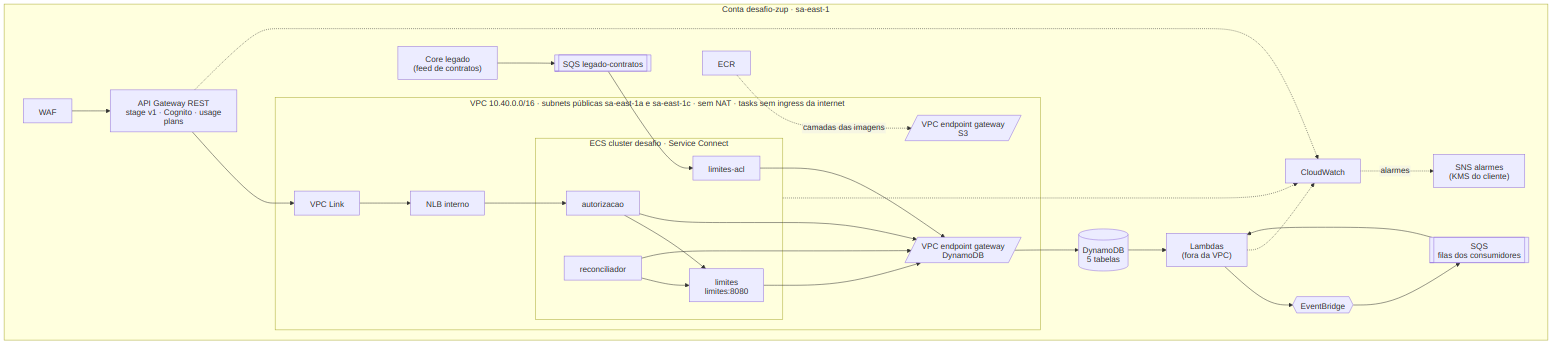
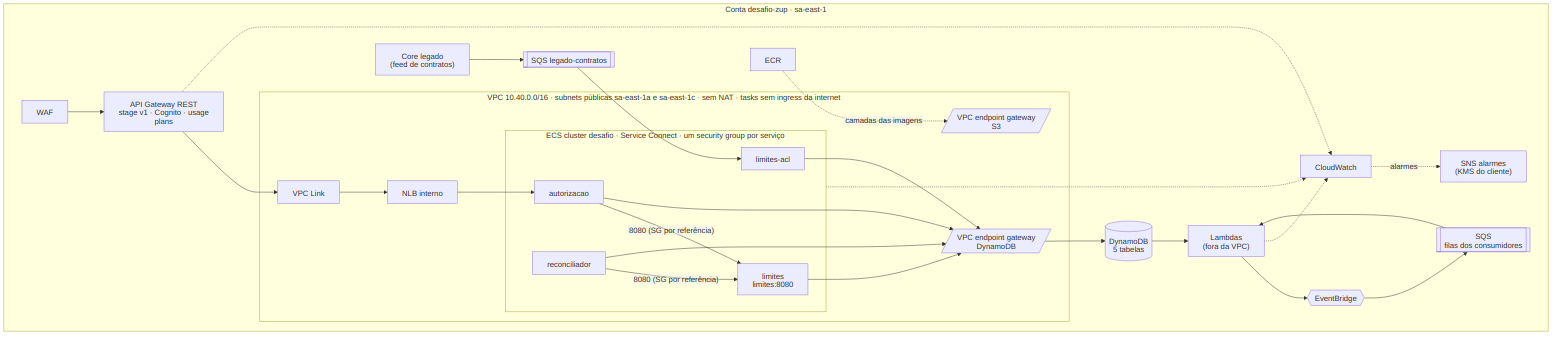
Integração do painel 6: documentação alinhada ao que foi implementado
- SLO e Well-Architected: burn rate em duas janelas e p99 alarmando em 400 ms já estão
  na IaC (não mais "desenhado").
- ADR-0017: lista de alarmes atual (burn rate, idade de fila, Errors de Lambda,
  IteratorAge do CDC, motivo desconhecido, varredura com erro).
- ADR-0010: três planos, o de carga estacionado em 200 rps.
- compliance.md: o canal vai no data do evento; 10 anos é desenho.
- capacidade.md: Lambdas do caminho assíncrono (teto 200 do ESM, perna do CDC, filtro INSERT).
- Matriz: id_conta conferido, 503 do banco no autorizacao, contrato interno testado,
  gate de schema mais largo com quebras registradas, IAM exclusivo nas 4 task roles,
  ACL aplicando conta e produto, e as limitações que pesam.
- Diagrama 05 com security group por serviço.

diff --git a/docs/cobertura-requisitos.md b/docs/cobertura-requisitos.md
@@ -18,7 +18,7 @@
 | RN-02 | Reserva consistente sob concorrência | ADR-0005; `limites/tests/contract/test_porta_repositorio.py` (corrida de 100 threads, memória **e** DynamoDB); property tests; demo §2. **Hold como árbitro** de captura, estorno e expiração (ADR-0020): 20 capturas + 10 liberações concorrentes → exatamente 1 aplicada (`test_captura_estorno_e_expiracao_disputam_o_hold_e_so_um_vence`); demo §4: 10 capturas × 10 estornos → `{201: 1, 409: 19}` | **D** |
 | RN-03 | Eventos de domínio para consumidores desacoplados | ADR-0007/0009; `relay/tests/integration`; `contabilizacao/tests/integration`. Ciclo de vida da reserva (ADR-0020): captura (`CAPTURAR_RESERVA`, `ReservaCapturada`) e expiração com motor (`ExpirarReservas`, `ReservaExpirada`): `autorizacao/tests/unit/test_autorizar_transacao.py`, `test_reconciliador.py`, `tests/contract/test_vencimento_de_reservas.py`; demo §4 | **D** |
 | RN-04 | Picos previsíveis e imprevisíveis | **Imprevisível:** load shedding testado (`test_load_shedding_acima_do_maximo_em_voo_e_503`), `MAX_EM_VOO` derivado da CPU da task, target tracking. **Previsível:** scaling agendado no Terraform (`aws_appautoscaling_scheduled_action`, janela de início de mês no sandbox; `run "ecs_servico_com_janela_de_pico"` no tftest) e `warm_throughput` suportado no módulo `dados` (desligado no sandbox por custo; `run "dados_com_warm_throughput_configurado"`). Predictive scaling e a folga de 1,6× só no ADR-0013 | **I** (Terraform testado, sem pico real executado) + **Dc** |
-| RN-05 | Core legado via ACL | ADR-0014; `limites/adapters/inbound/legado/`; `tests/unit/test_legado.py`; `legado-mock` + teste de contrato do layout. Ids limitados ao layout (20 e 16 posições): `formatar` falha em vez de truncar (`test_formatar_falha_em_vez_de_truncar`) e `traduzir` rejeita id fora do pattern (DLQ) | **D** |
+| RN-05 | Core legado via ACL | ADR-0014; o legado é dono de concedido, status, conta e produto, e a ACL aplica os quatro com compare-and-set por versão; `limites/adapters/inbound/legado/`; `tests/unit/test_legado.py`; `legado-mock` + teste de contrato do layout. Ids limitados ao layout (20 e 16 posições): `formatar` falha em vez de truncar (`test_formatar_falha_em_vez_de_truncar`) e `traduzir` rejeita id fora do pattern (DLQ) | **D** |
 | RN-06 | Auditoria, rastreabilidade, idempotência | ADR-0006/0017; idempotência com testes de replay, commit incerto e estorno concorrente; correlação propagada; trilha WORM (sandbox: CloudTrail Object Lock, criado no bootstrap da conta, fora do Terraform do repositório). Guarda de 5 min com compactação de carona (ADR-0005/0006); prazo de reaplicação de 4 min e `RECONCILIACAO_MANUAL` (`test_retomada_fora_do_prazo_nao_reenvia_ao_limite`, `test_orfa_fora_do_prazo_vai_para_reconciliacao_manual_sem_tocar_o_limite`); runbook R7 | **D** (idempotência, rastreabilidade) + **I** (trilha WORM: CloudTrail com Object Lock criado no bootstrap da conta, fora da IaC) |
 | RN-07 | Múltiplos tipos de contrato | `TipoProduto` (crédito, investimento, seguro, consórcio) na réplica do contrato e no layout legado. É rótulo: a regra de limite é a mesma para os quatro | **I** |
 
@@ -36,18 +36,18 @@
 |---|---|---|---|
 | API-01 | `POST /v1/contratos/{id}/autorizacoes` | `contracts/openapi/autorizacao-v1.yaml` | **D** |
 | API-02 | `Idempotency-Key` obrigatório | ausente/inválida → 400 (teste) | **D** |
-| API-03 | Campos e validações | `PedidoRequest` + `PedidoDeAutorizacao`; testes 400/422; corpos validados contra o OpenAPI (`services/autorizacao/tests/contract/test_api_bate_com_o_contrato.py`). `id_conta` é declarado pelo chamador e não é conferido contra o contrato (premissa no OpenAPI) | **D** |
+| API-03 | Campos e validações | `PedidoRequest` + `PedidoDeAutorizacao`; testes 400/422; corpos validados contra o OpenAPI (`services/autorizacao/tests/contract/test_api_bate_com_o_contrato.py`). `id_conta` é **conferido** contra a titular do contrato na réplica do core: divergente → 422 `CONTA_DIVERGENTE`, sem gravar nada (`limites` `Limite.atende`/`diagnosticar`, condição na escrita; testes nas duas pernas) | **D** |
 | API-04 | 201 com `id_autorizacao` e saldo reservado | teste + demo | **D** |
 | API-05 | 200 replay | corpo idêntico byte a byte (teste + demo) | **D** |
 | API-06 | 402 limite insuficiente | teste + demo; nuance no ADR-0011 | **D** |
 | API-07 | 409 conflito | em andamento / conflito de estado (testes); **não existe 409 de contenção** (ADR-0005). Captura ou estorno que perde o hold → 409 `conflito-de-estado` (ADR-0020; demo §4); retomada fora do prazo → 409 `conflito-de-estado` **sem** `Retry-After` (`EmReconciliacao`; ADR-0006) | **D** |
 | API-08 | 422 validação de domínio | testes unitários e de conformidade (8 corpos inválidos); o serviço é a autoridade também na AWS (o gateway só valida parâmetros) e o smoke exige 422 `problem+json` na AWS (`tests/e2e/aws.py borda`) | **D** |
 | API-09 | 429 throttling por cliente/plano | usage plans por canal (3 planos) + WAF rate-based por consumidor (`x-api-key`) e por IP no Terraform; `THROTTLED`/`QUOTA_EXCEEDED` em problem+json com `Retry-After`; o smoke exige um 429 numa rajada concorrente pelo `canal-app` (`tests/e2e/aws.py borda`). O 429 do WAF sai em `application/json` (desvio no catálogo) | **D** (gateway: 429 observado no smoke na AWS, 20/10) + **I** (WAF: só configurado e asserido no tftest) |
-| API-10 | 503 degradação | circuit breaker e load shedding (testes). Estrangulamento do DynamoDB no `limites` → 503 `servico-indisponivel` com `Retry-After: 1` (`limites/tests/unit/test_dynamodb_resiliencia.py`; ADR-0005/0016) | **D** |
+| API-10 | 503 degradação | circuit breaker e load shedding (testes). Estrangulamento do DynamoDB no `limites` → 503 `servico-indisponivel` com `Retry-After: 1` (`limites/tests/unit/test_dynamodb_resiliencia.py`; ADR-0005/0016). O mesmo no `autorizacao`: estrangulamento, timeout e conflito de transação do DynamoDB → 503 com `Retry-After: 1` e repetição com a mesma chave (`autorizacao/tests/unit/test_dynamodb_resiliencia.py`) | **D** |
 | API-11 | Idempotência em toda operação mutante | POST de autorização; operações internas do `limites` idempotentes por `id_operacao` | **D** |
 | API-12 | Versionamento e depreciação | `/v1`; política no ADR-0011 (RFC 9745 + 8594); oasdiff e gate de schemas na CI em push e PR, fail-closed (`scripts/compat_contratos.sh`). Headers `Deprecation`/`Sunset`: só na política, não há versão depreciada para exercitar | **D** (compatibilidade) + **Dc** (depreciação) |
 | API-13 | Erros padronizados (RFC 7807 → 9457) | `libs/plataforma/problemas`; catálogo; testes de content-type e `codigo` | **D** |
-| API-14 | OpenAPI 3.x contract-first | contratos validados (Spectral + spec-validator) na CI; código ≡ contrato por teste (`test_api_bate_com_o_contrato.py`: status declarado, media type, schema e catálogo); a spec gerada pelo FastAPI está desligada (`/openapi.json` → 404) | **D** |
+| API-14 | OpenAPI 3.x contract-first | contratos validados (Spectral + spec-validator) na CI; código ≡ contrato por teste (`test_api_bate_com_o_contrato.py`: status declarado, media type, schema e catálogo); inclui os 4 `tipo_operacao`, o 405, o 422 do GET, o 503 do banco e `CONTA_DIVERGENTE`; o contrato **interno** tem o seu teste (`services/limites/tests/contract/test_api_interna_bate_com_o_contrato.py`: enums e respostas); a spec gerada pelo FastAPI está desligada (`/openapi.json` → 404) | **D** |
 | API-15 | Contrato usado para fronteiras e erros | ADR-0002/0011; contrato interno separado | **Dc** |
 
 ## Contrato de evento
@@ -58,8 +58,8 @@
 | EVT-02 | EventBridge e roteamento | bus `financas` + regras (bootstrap e Terraform); teste de integração | **D** |
 | EVT-03 | Consumidores desacoplados | filas por consumidor + DLQ; fan-out provado na demo §6 (o mesmo CloudEvent em `antifraude`, `notificacoes` e no lançamento contábil). Só a contabilização tem consumidor implementado; antifraude e notificações são filas dos sistemas a jusante | **D** (fan-out) + **I** (consumidores) |
 | EVT-04 | Imutáveis, passado, CloudEvents | CloudEvent em `detail`; validação por schema | **D** |
-| EVT-05 | `event_id` para dedup | `id` estável gerado no outbox; inbox da contabilização (teste de reentrega e corrida) | **D** |
-| EVT-06 | Evolução validada por registry | `scripts/compat_schemas.py` + `tests/contract/test_compat_schemas.py` (inclui `additionalProperties`, `pattern`, limites numéricos, `format` e tamanhos); gate na CI em push e PR, fail-closed. **Nuance:** o registry do EventBridge não valida (ADR-0008); o repositório + CI fazem esse papel | **D** |
+| EVT-05 | `event_id` para dedup | `id` estável gerado no outbox; inbox da contabilização (teste de reentrega e corrida); o item do outbox não expira por idade e o sweeper republica o que sobrou em páginas, até 10.000 por rodada (`relay/src/relay/sweeper.py`) | **D** |
+| EVT-06 | Evolução validada por registry | `scripts/compat_schemas.py` + `tests/contract/test_compat_schemas.py` (inclui `additionalProperties`, `pattern`, limites numéricos, `format` e tamanhos); inclui `enum`/`const` novos e composições (`allOf`, `anyOf`, `oneOf`, `not`, `dependencies`); gate na CI em push e PR, fail-closed; quebra deliberada só com registro em `contracts/events/quebras-aceitas.json` (motivo e data; ADR-0008). **Nuance:** o registry do EventBridge não valida (ADR-0008); o repositório + CI fazem esse papel | **D** |
 | EVT-07 | Consumidor idempotente, tolera reordenação | property test da contabilização (qualquer ordem e reentrega → mesmo saldo) | **D** |
 | EVT-08 | `LimiteAlterado` e estorno | schemas + produtores (CDC e autorização); `LimiteAlterado` conferido na fila `notificacoes` na demo §7 | **D** |
 
@@ -70,9 +70,9 @@
 | ARQ-01..03 | SOLID, Clean Code, hexagonal | ADR-0019; marcadores SRP/OCP/LSP/ISP/DIP no código; import-linter na CI com 8 contratos (3 serviços + `relay`); `tests/contract/test_gate_de_arquitetura.py` prova que um `import boto3` no domínio deixa o contrato `BROKEN` | **D** |
 | ARQ-04 | DDD | ADR-0002; `docs/dominio/`; agregados com invariantes testadas | **D** |
 | ARQ-05 | CQRS, Repository, Domain Events | ADR-0015 | **Dc** |
-| MS-01 | Fronteiras por BC | ADR-0002 | **Dc/I** |
+| MS-01 | Fronteiras por BC | ADR-0002; a fronteira `autorizacao → limites` tem contrato interno com teste de conformidade (enums e respostas) e segurança declarada (só `autorizacao` e `reconciliador` alcançam a porta, por security group) | **Dc** + **D** (contrato interno) |
 | MS-02 | Runtime de compute justificado | ADR-0004 (p99 e cold start, custo em carga sustentada, Service Connect; quota de Lambda de 1.000) + medição em `docs/capacidade.md` §3 | **Dc** |
-| MS-03 | Database-per-service | uma tabela (ou mais) por serviço; IAM por serviço verificado no tftest (`run "task_roles_menor_privilegio"`) | **D** |
+| MS-03 | Database-per-service | uma tabela (ou mais) por serviço; IAM por serviço verificado no tftest (`run "task_roles_menor_privilegio"`: allowlist exclusiva de recursos nas 4 task roles) | **D** |
 | EDA-01 | EventBridge, SNS, SQS | EventBridge + SQS implementados; ADR-0009 pesa SNS (inclusive regra → SNS → N filas) e diz quando entraria; SNS usado nos alarmes | **Dc/I** |
 | EDA-02 | SQS, Kinesis, MSK para volumetria e ordem | ADR-0009 | **Dc** |
 | APIM-01 | API Gateway com autorização | Terraform (REST + Cognito + API key); o smoke exige 401 `problem+json` sem token na AWS | **D** (sandbox) |
@@ -101,4 +101,8 @@
 - **API Gateway e Cognito não são emulados localmente:** verificados pelo smoke da esteira na AWS.
 - **Consumidores de antifraude e notificações:** só as filas (sistemas a jusante).
 - **Predictive scaling e warm throughput ligado:** desenhados; warm throughput fica desligado no sandbox por custo.
+- **Saldo credor:** `utilizado` é saldo devedor líquido; devolver (CREDITO ou ESTORNO) mais do que o utilizado é recusado (`CREDITO_EXCEDE_UTILIZADO`).
+- **p99 ≤ 150 ms:** não atingido (164 ms no melhor degrau, `docs/capacidade.md` §3); o alarme de latência fica em 400 ms.
+- **Trilha de 10 anos:** desenho (Firehose → S3 Object Lock); no sandbox o durável é o archive de 30 dias, e `TransacaoCompensada` e `TransacaoEmReconciliacaoManual` não têm assinante (só o archive).
+- **Autenticação na API interna:** não há; a fronteira é o security group (só `autorizacao` e `reconciliador`). Produção: mTLS do Service Connect.
 - **`decimal(18,2)` nos schemas de evento:** `number` com teto; a escala de 2 casas é garantida pelo produtor (o EventBridge reserializa números).

diff --git a/docs/arquitetura/well-architected.md b/docs/arquitetura/well-architected.md
@@ -4,7 +4,7 @@
 
 | Pilar | O que a solução faz | Evidência | Gap declarado |
 |---|---|---|---|
-| **Excelência operacional** | IaC (Terraform) da stack do sandbox e da esteira; deploy com gate `CONFIRMO` e checagem de conta; ECS com circuit breaker de deploy e rollback; runbooks; SLIs, SLO e error budget definidos; dashboard e alarmes (5XX, p99, DLQ, IteratorAge, guarda, reservas, reconciliador, defasagem do legado) com notificação por SNS; `correlation_id` e `gateway_request_id` nos logs de erro | `infra/terraform/`, `Makefile`, `docs/operacao/` (`slo.md`) | Sem canary no API Gateway nem deploy blue/green no ECS (rolling com rollback). A IaC não cobre o bootstrap da conta: Organization e SCP, CloudTrail e o bucket da trilha, bucket do state, budget (feitos à mão, `docs/operacao/infraestrutura.md`, seção 2). Burn-rate do SLO só desenhado: o alarme de 5XX tem janela única em 1% (10× a taxa do budget) e o de p99 em 150 ms dispara sob carga, porque o alvo não foi atingido |
+| **Excelência operacional** | IaC (Terraform) da stack do sandbox e da esteira; deploy com gate `CONFIRMO` e checagem de conta; ECS com circuit breaker de deploy e rollback; runbooks; SLIs, SLO, error budget e alarmes de burn rate em duas janelas; dashboard e alarmes (5XX, p99, DLQ, IteratorAge, guarda, reservas, reconciliador, defasagem do legado) com notificação por SNS; `correlation_id` e `gateway_request_id` nos logs de erro | `infra/terraform/`, `Makefile`, `docs/operacao/` (`slo.md`) | Sem canary no API Gateway nem deploy blue/green no ECS (rolling com rollback). A IaC não cobre o bootstrap da conta: Organization e SCP, CloudTrail e o bucket da trilha, bucket do state, budget (feitos à mão, `docs/operacao/infraestrutura.md`, seção 2). O alarme de p99 fica em 400 ms, acima do SLO de 150 ms, porque o alvo não foi atingido (alarmar no SLO dispararia sempre); a disponibilidade tem burn rate em duas janelas (`docs/operacao/slo.md`) |
 | **Segurança** | OAuth2 com escopo; WAF; uma task role por serviço com least privilege (verificado por `terraform test`); SCP de região na OU; nenhuma PII em evento, log ou trace; criptografia em repouso e em trânsito; state do Terraform em S3 com KMS; CloudTrail num bucket com Object Lock `GOVERNANCE` de 1 dia, que demonstra o mecanismo (criado no bootstrap da conta, fora do Terraform do repositório); Trivy e Checkov na CI | ADR-0010, 0017; `infra/terraform/environments/sandbox/tests/` | mTLS entre serviços não ligado no sandbox; tasks em subnet pública sem ingress (desvio de custo). O lock `GOVERNANCE` não é WORM de verdade: quem tem `s3:BypassGovernanceRetention` contorna, e a `PowerUserAccess` da role da esteira tem. O CloudTrail não registra operação financeira (sem eventos de dados): a trilha do negócio são os eventos, com 30 dias de archive no sandbox; os 10 anos em `COMPLIANCE` são desenho (ADR-0017) |
 | **Confiabilidade** | Multi-AZ; idempotência ponta a ponta; outbox sem dual-write; circuit breaker, timeouts e retry com jitter; load shedding; DLQ por consumidor; reconciliador de órfãs; PITR; quotas pedidas antes da carga | ADR-0005, 0006, 0007, 0013; testes de corrida e de commit incerto | DR multi-região só desenhado (RPO > 0). As quotas aprovadas não bastam para o pico: PutEvents 6.000 e Invocations 20.000 contra até 10.500 e 21.000/s com capturas; pedir 12.000 e 25.000 (`docs/capacidade.md`, seção 1.1) |
 | **Eficiência de performance** | Escrita condicional de item único (sem conflito de transação); um round-trip ao banco por operação no limite; Graviton (ARM64) como alvo de produção (o sandbox medido roda x86); escala horizontal; warm throughput para picos; payload pequeno | ADR-0004, 0005, 0016; `docs/capacidade.md` | **p99 ≤ 150 ms não atingido:** 164 ms no gateway a 33% de CPU, e os 5.000 TPS são extrapolados de 600 rps medidos (`docs/capacidade.md`, seção 3). Teto por contrato quente (~8 op/s sustentadas); fragmentação só desenhada |

diff --git a/docs/operacao/slo.md b/docs/operacao/slo.md
@@ -26,7 +26,7 @@ As premissas estão no ADR-0001 (99,9%/mês; p99 ≤ 150 ms no gateway). Aqui fi
 - **Latência: 99% das requisições sem erro em até 150 ms** no gateway, o p99 do ADR-0001. **Alvo não atingido:** o melhor degrau medido teve p99 de 164 ms no gateway (150 rps, 33% de CPU); 526 ms a 300 rps; 874 ms a 600 rps (`docs/capacidade.md`, seção 3). O caminho está na seção 5 do mesmo documento.
 - **Ordem de grandeza:** o degrau de 600 rps com 6 tasks teve 4,4% de 503, 44× a taxa do budget. Sustentado, gastaria o mês em ~16 h.
 
-## Política de burn-rate (desenhada, não implementada)
+## Política de burn-rate (implementada na IaC)
 
 Taxa de queima = taxa de 5xx ÷ 0,1%. São dois alertas, cada um com janela longa e janela curta, e as duas precisam estar acima do limiar: a longa dá significância, a curta faz o alerta parar logo depois da recuperação (Google SRE Workbook, "Alerting on SLOs").
 
@@ -35,17 +35,16 @@ Taxa de queima = taxa de 5xx ÷ 0,1%. São dois alertas, cada um com janela long
 | Rápido | 14,4× | 1 h | 5 min | > 1,44% | 2% do mês | Página ao plantão |
 | Lento | 6× | 6 h | 30 min | > 0,6% | 5% do mês | Página ao plantão |
 
-- **Implementação prevista:** um alarme de metric math (`5XXError` ÷ `Count`) por janela, os dois de cada alerta combinados num alarme composto (AND), com ação no tópico SNS de alarmes (ADR-0017).
+- **Implementação:** `infra/terraform/modules/observabilidade/main.tf` tem um alarme de metric math (`5XXError` ÷ `Count`) por janela (`api-5xx-burn-rapido-1h`, `-rapido-5min`, `-lento-6h`, `-lento-30min`, sem ação própria) e um alarme composto por par (`api-5xx-burn-rapido` e `api-5xx-burn-lento`, AND das duas janelas), com ação no tópico SNS de alarmes. Janela com média abaixo de `burn_rate_rps_minimo` não avalia: no sandbox ocioso, 1 erro em 20 requisições do smoke não pode queimar um orçamento que nem tem amostra.
 - **Budget esgotado no mês:** só entram mudanças de confiabilidade e capacidade até a janela de 30 dias voltar ao positivo.
 
 ## Alarmes de API que a IaC tem hoje
 
-`infra/terraform/modules/observabilidade/main.tf` tem dois, e nenhum é de burn-rate:
-
-| Alarme | Regra | O que ele não cobre deste SLO |
+| Alarme | Regra | Observação |
 |---|---|---|
-| `api_5xx` | 5xx ÷ `Count` > 1% num período de 5 min | Janela única; 1% é 10× a taxa do budget: 0,9% sustentado não alarma e gasta o mês em ~3 dias. Conta o 503 de shedding, o que está certo por este SLI |
-| `api_p99` | p99 do `Latency` > 150 ms em 3 de 5 min | O p99 medido passou de 150 ms em todos os degraus: sob carga sustentada ele dispara e mostra o alvo não atingido, não um incidente. Não tem runbook |
+| `api-5xx-burn-rapido` (composto) | 1 h e 5 min acima de 14,4× o orçamento (> 1,44% de 5xx) | Conta o 503 de shedding, como este SLI manda |
+| `api-5xx-burn-lento` (composto) | 6 h e 30 min acima de 6× o orçamento (> 0,6% de 5xx) | Idem |
+| `api_p99` | p99 do `Latency` > **400 ms** (`p99_alarme_ms`) em 3 de 5 min | Não alarma no SLO de 150 ms porque o entregue não o atinge (164 ms no melhor degrau): alarmar em 150 dispararia sempre. 400 ms fica acima do medido com folga de CPU e abaixo da saturação (874 ms). O SLO de latência segue anotado no dashboard |
 
 O SLO cobre a API síncrona. O caminho assíncrono não tem SLO definido; os sinais dele são os alarmes de DLQ, IteratorAge e defasagem do legado (ADR-0017).
 

diff --git a/docs/compliance.md b/docs/compliance.md
@@ -6,7 +6,7 @@
 | Norma | O que exige (resumo) | Mecanismo na solução | Onde |
 |---|---|---|---|
 | **Res. CMN 4.893/2021**, alterada pela **CMN 5.274/2025** (adaptação até 01/03/2026) | Política de segurança cibernética. Rastreabilidade fim a fim e trilhas de auditoria com retenção definida (art. 3º, §7º, na redação nova). Requisitos de segurança em integrações por API. Contratação de nuvem com comunicação ao BCB e acesso do supervisor aos dados (arts. 15–17) | `correlation_id` + `traceparent` + `id_autorizacao` do HTTP ao lançamento, e o `requestId` do gateway repassado ao serviço (`X-Gateway-Request-Id`) para juntar a borda ao serviço; eventos imutáveis com archive; trilha WORM (S3 Object Lock: no sandbox em `GOVERNANCE` por 1 dia, com a esteira proibida de contorná-lo; em produção `COMPLIANCE`); OAuth2 com escopo, WAF por consumidor e por IP, validação dos parâmetros na borda e do corpo no serviço; segmentação leste-oeste por security group (só `autorizacao` e `reconciliador` alcançam a API interna do `limites`); SAST, SCA do lock e scan da imagem na esteira; região sa-east-1 como premissa e DR fora do país sinalizado como gatilho dos arts. 15–17 | ADR-0017, ADR-0010, ADR-0001, ADR-0013, `docs/operacao/infraestrutura.md` (4.1, 6) |
-| **Circular BCB 3.978/2020** (PLD/FT) | Registro de **todas** as operações, inclusive o canal, guardado por **10 anos** (arts. 28 e 67) | Toda decisão vira evento, **inclusive recusas** (`TransacaoRecusada`), com canal em `metadata`; retenção de 10 anos em S3 Object Lock (produção) | ADR-0008, ADR-0017 |
+| **Circular BCB 3.978/2020** (PLD/FT) | Registro de **todas** as operações, inclusive o canal, guardado por **10 anos** (arts. 28 e 67) | Toda decisão vira evento, **inclusive recusas** (`TransacaoRecusada`), com o `canal` (de `metadata.canal`, opcional) no `data` de `TransacaoAutorizada` e `TransacaoRecusada`; retenção de 10 anos em S3 Object Lock (produção, desenho: no sandbox o durável é o archive de 30 dias) | ADR-0008, ADR-0017 |
 | **Res. BCB 85/2021** (instituições de pagamento), alterada pelas BCB 538/2025 e 552/2026 | Segurança cibernética e nuvem para IPs | Mesmos mecanismos da 4.893 | — |
 | **LGPD (Lei 13.709/2018)** | Minimização, finalidade, segurança; retenção por obrigação legal (art. 16, I) | Eventos, logs e traces só com identificadores pseudonimizados (`id_conta`, `id_contrato`), sem nome, CPF ou geo preciso; `metadata` com allowlist (UF e município IBGE); retenção da trilha justificada pela Circular 3.978 | ADR-0011, ADR-0017 |
 | **Res. ANPD 15/2024** | Registro de incidentes por 5 anos | CloudTrail com bucket WORM (criado no bootstrap da conta, fora do Terraform do repositório; no sandbox `GOVERNANCE` por 1 dia e lifecycle de 30 dias, para demonstrar o mecanismo). A role da esteira tem `Deny` explícito para desligar ou alterar o trail, contornar o Object Lock e mexer em versões, lifecycle, Object Lock e policy do bucket da trilha. Alarmes com notificação num tópico SNS criptografado (KMS do cliente); trilha de eventos | ADR-0017, `docs/operacao/infraestrutura.md` (2, 3) |

diff --git a/docs/capacidade.md b/docs/capacidade.md
@@ -38,6 +38,8 @@ No pico de 5.000 aprovações/s + ~500 recusas/s:
 
 **As quotas aprovadas não bastam.** Com uma fração *f* das aprovações sendo captura, são 5.500 + 5.000·*f* entradas/s e 16.000 + 5.000·*f* invocations/s: PutEvents 6.000 estoura a partir de *f* = 10%; Invocations 20.000 aguenta o mix de cartão usando 92% da quota e estoura a partir de *f* = 80%. **Pedir: PutEvents 12.000/s e Invocations 25.000/s** (pior caso + ~15–20%). A tabela de quotas da AWS fala em requisições de PutEvents por segundo e não diz se uma requisição de 10 entradas (o lote do relay) conta 1 ou 10: a conta acima usa a leitura conservadora (entradas). O fan-out por SNS cortaria as invocations (ADR-0009), com outros custos.
 
+**Lambdas do caminho assíncrono.** A concorrência da conta (1.000) é compartilhada. O consumidor contábil tem teto de **200** no ESM (`concorrencia_maxima_sqs`): com lotes de ~100 ms, ~10.000 eventos/s, o dobro do pior mix (estimativa: a duração por lote não foi medida na AWS). Relay e CDC usam uma execução por shard de Stream (o número de shards a 5.000 TPS não foi medido). O CDC do `LimiteAlterado` lê **todo** registro do Stream da tabela `limites`, porque toda operação incrementa a `versao` e gera um `MODIFY`: ~5.000 registros/s no pico para publicar quase nada (só mudança de `concedido` ou `status` vira evento). A correção estrutural é um outbox próprio do `limites` no `ATUALIZADO` (ADR-0014). O relay filtra `INSERT` no ESM e não é mais invocado pelos `REMOVE` que ele mesmo gera.
+
 ### 1.2 GSIs esparsos: a conta por chave de partição
 
 Toda autorização entra no `gsi_orfas` ao ser registrada (`EM_PROCESSAMENTO`) e sai ao concluir: **2 escritas no índice**, de ~1 WCU cada (item de ~0,5–0,7 KB, projeção `ALL`). A 5.000 TPS são ~10.000 WCU/s no índice. A sort key (`orfa_lease_ms`, e `venc_ms` no `gsi_vencimentos`) cresce com o tempo, então o DynamoDB não divide uma chave quente por faixa de sort key, e cada valor de shard fica preso a **1.000 WCU/s**:

diff --git a/docs/adr/0017-observabilidade-auditoria-seguranca-compliance.md b/docs/adr/0017-observabilidade-auditoria-seguranca-compliance.md
@@ -41,7 +41,7 @@ O caso é regulado: o banco é S1 e segue as Resoluções CMN 4.893/2021 (altera
   - tamanho do outbox;
   - IteratorAge do relay;
   - órfãs compensadas por hora.
-- **Alarmes:** 5XX > 1%, p99 > 150 ms, qualquer mensagem em DLQ (inclusive a DLQ de entrega dos targets do EventBridge), IteratorAge > 60 s, guarda de idempotência acima de 2.000 entradas (`OperacoesNaGuarda`) e reservas ativas no item acima de 2.000 (`ReservasAtivas`, ADR-0016), defasagem do feed do legado acima de 5 min (ADR-0014) e os do reconciliador (`reconciliador-encaminhadas`, `reconciliador-falhas`, `reconciliador-hold_perdido`). Órfãs compensadas por hora é consulta de log (runbook R4), sem alarme.
+- **Alarmes:** 5XX por burn rate em duas janelas sobre o SLO de 99,9% (`docs/operacao/slo.md`), p99 > 400 ms (o SLO de 150 ms não foi atingido; alarmar nele dispararia sempre), qualquer mensagem em DLQ (inclusive a DLQ de entrega dos targets do EventBridge), idade da mensagem mais antiga em cada fila consumidora, `Errors` de cada Lambda, IteratorAge > 60 s do relay e do CDC, motivo de recusa desconhecido vindo do `limites`, varredura do reconciliador com erro, guarda de idempotência acima de 2.000 entradas (`OperacoesNaGuarda`) e reservas ativas no item acima de 2.000 (`ReservasAtivas`, ADR-0016), defasagem do feed do legado acima de 5 min (ADR-0014) e os do reconciliador (`reconciliador-encaminhadas`, `reconciliador-falhas`, `reconciliador-hold_perdido`). Órfãs compensadas por hora é consulta de log (runbook R4), sem alarme.
 - **Ação dos alarmes:** todos notificam (ALARM e OK) o tópico SNS `desafio-autorizacao-alarmes`, criptografado com chave KMS gerenciada pelo cliente e rotação ligada. Não é a `alias/aws/sns`: com ela o CloudWatch não consegue publicar. A policy do tópico só aceita o CloudWatch vindo de alarmes da conta (`aws:SourceAccount`, `aws:SourceArn`). No sandbox não há assinatura por padrão (`var.email_alarmes`); na produção o plantão assina.
 
 ### Segurança

diff --git a/docs/adr/0010-api-gateway-rest-cognito-usage-plans.md b/docs/adr/0010-api-gateway-rest-cognito-usage-plans.md
@@ -26,12 +26,13 @@ Fatos (da documentação oficial da AWS; os links principais estão em Referênc
   - Authorizer `COGNITO_USER_POOLS` exigindo o escopo.
   - O `client_id` do token é injetado no header `X-Client-Id` da integração e compõe o escopo de idempotência (ADR-0006).
   - O serviço só é alcançável pelo VPC Link, então não aceita o header vindo de fora.
-- **Cotas por consumidor:** usage plan + API key por canal, com dois planos para a demo.
+- **Cotas por consumidor:** usage plan + API key por canal, com três planos no sandbox.
 
   | Plano | Taxa | Burst | Quota |
   |---|---|---|---|
   | `plano-padrao` | 200 rps | 400 | 1 M/dia |
   | `plano-restrito` | 5 rps | 10 | 1.000/dia, para demonstrar o **429** |
+  | `plano-carga` | 200 rps | 400 | 1 M/dia; só a janela de medição com k6 sobe este plano e os dois tetos do WAF, pelo tfvars |
 
 - **Os números são de demonstração; a regra é a de produção.** A 5.000 TPS em 3 canais iguais (~1.667 rps cada), o plano de cada canal fica em 1,6 × o pico dele (~2.667 rps, a folga do ADR-0004), o WAF por consumidor em 2× isso (1,6 M em 5 min) e o WAF por IP acima da soma dos canais que dividem um egress; a quota diária sai do maior dia do canal (2×), que o enunciado não dá. A soma dos planos, 8.000 rps, é 80% do throttle de 10.000 da conta. Conta completa: `docs/capacidade.md`, seção 1.4.
 - **Proteção dura:**
